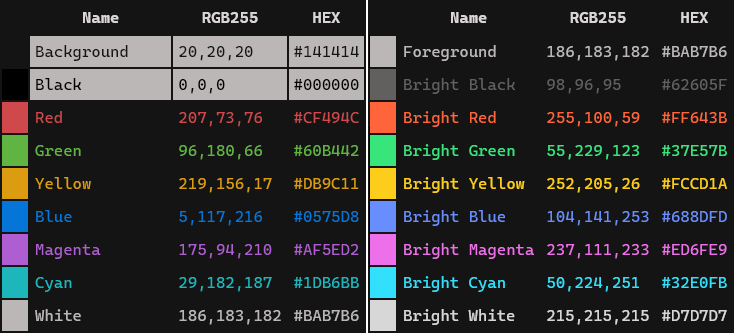
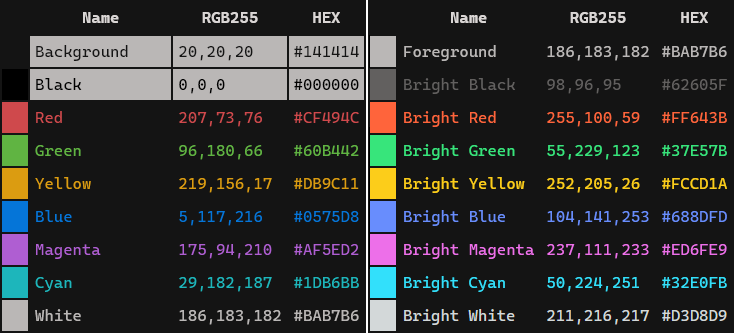
Adjust Bright white a little more to configs

Changed region(s): [[0.7493, 0.9309, 0.9891, 0.961], [0.5395, 0.9309, 0.7193, 0.961]]

diff --git a/preview/color-table.html b/preview/color-table.html
@@ -7,7 +7,7 @@ th, td { padding: 5px; }
 <body>
 
 <table style="background: #141414; display: inline-table;">
-<tr style="color:#D7D7D7"><th>　</th><th>Name</th><th>RGB255</th><th>HEX</th></tr>
+<tr style="color:#D3D8D9"><th>　</th><th>Name</th><th>RGB255</th><th>HEX</th></tr>
 <tr style="background:#BAB7B6; color:#141414"><td style="background:#141414">　</td><td>Background</td><td>20,20,20</td><td>#141414</td></tr>
 <tr style="background:#BAB7B6; color:#000000"><td style="background:#000000">　</td><td>Black</td><td>0,0,0</td><td>#000000</td></tr>
 <tr style="color:#CF494C"><td style="background:#CF494C">　</td><td>Red</td><td>207,73,76</td><td>#CF494C</td></tr>
@@ -20,7 +20,7 @@ th, td { padding: 5px; }
 </table>
 
 <table style="background: #141414; display: inline-table;">
-<tr style="color:#D7D7D7"><th>　</th><th>Name</th><th>RGB255</th><th>HEX</th></tr>
+<tr style="color:#D3D8D9"><th>　</th><th>Name</th><th>RGB255</th><th>HEX</th></tr>
 <tr style="color:#BAB7B6"><td style="background:#BAB7B6">　</td><td>Foreground</td><td>186,183,182</td><td>#BAB7B6</td></tr>
 <tr style="color:#62605F"><td style="background:#62605F">　</td><td>Bright Black</td><td>98,96,95</td><td>#62605F</td></tr>
 <tr style="color:#FF643B"><td style="background:#FF643B">　</td><td>Bright Red</td><td>255,100,59</td><td>#FF643B</td></tr>
@@ -29,7 +29,7 @@ th, td { padding: 5px; }
 <tr style="color:#688DFD"><td style="background:#688DFD">　</td><td>Bright Blue</td><td>104,141,253</td><td>#688DFD</td></tr>
 <tr style="color:#ED6FE9"><td style="background:#ED6FE9">　</td><td>Bright Magenta</td><td>237,111,233</td><td>#ED6FE9</td></tr>
 <tr style="color:#32E0FB"><td style="background:#32E0FB">　</td><td>Bright Cyan</td><td>50,224,251</td><td>#32E0FB</td></tr>
-<tr style="color:#D7D7D7"><td style="background:#D7D7D7">　</td><td>Bright White</td><td>215,215,215</td><td>#D7D7D7</td></tr>
+<tr style="color:#D3D8D9"><td style="background:#D3D8D9">　</td><td>Bright White</td><td>211,216,217</td><td>#D3D8D9</td></tr>
 </table>
     
 </body>

diff --git a/config/README.md b/config/README.md
@@ -38,4 +38,4 @@ Bright Yellow  | 252, 205, 26  | #FCCD1A
 Bright Blue    | 104, 141, 253 | #688DFD
 Bright Magenta | 237, 111, 233 | #ED6FE9
 Bright Cyan    | 50, 224, 251  | #32E0FB
-Bright White   | 215, 215, 215 | #D7D7D7
+Bright White   | 211, 216, 217 | #D3D8D9
